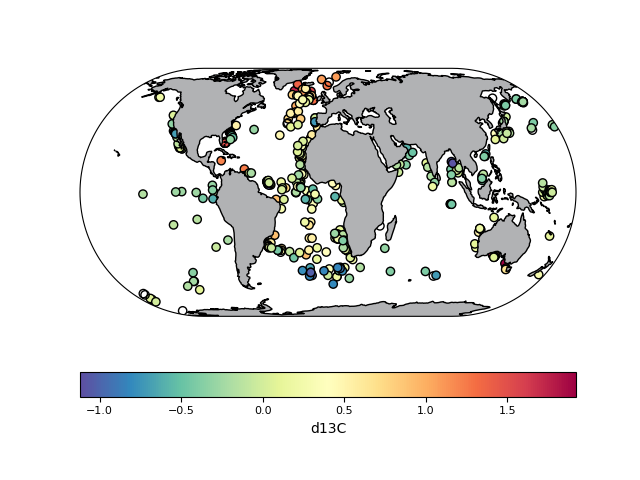
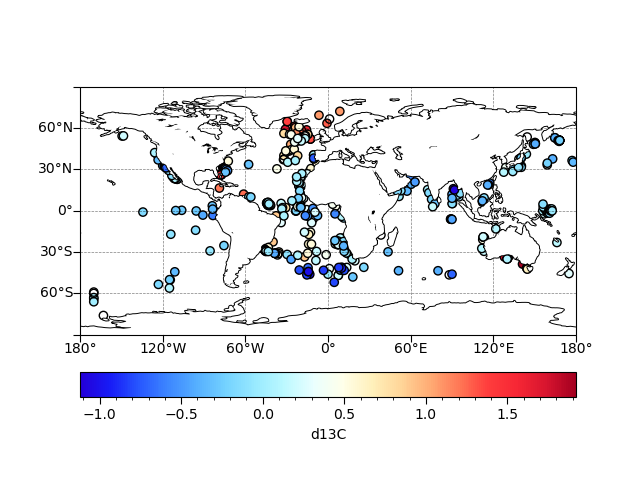
update plot_scatter_map example

diff --git a/examples/plot_scatter_map.py b/examples/plot_scatter_map.py
@@ -7,8 +7,11 @@ This example shows how to plot the 2D ScatterData object. I use a LGM d13C data 
 """
 
 from cgeniepy.table import ScatterData
-
+from cgeniepy.plot import CommunityPalette
 proxy_d13C = ScatterData("~/Science/lgm_bcp/data/LGM_d13c_CLEAN.txt", delimiter="\t", header=None)
 proxy_d13C.data.columns = ["Longitude", "Latitude", "Depth", "d13C","Event"]
 proxy_d13C.set_index(["Latitude", "Longitude"])
-proxy_d13C.plot(var='d13C', edgecolor='k', cmap='Spectral_r')
+cmap = CommunityPalette("BuDaRd18").colormap
+proxy_d13C.plot(var='d13C', edgecolor='k', cmap=cmap)
+
+plt.show()

diff --git a/docs/source/auto_examples/plot_scatter_map.py b/docs/source/auto_examples/plot_scatter_map.py
@@ -7,8 +7,9 @@ This example shows how to plot the 2D ScatterData object. I use a LGM d13C data 
 """
 
 from cgeniepy.table import ScatterData
-
+from cgeniepy.plot import CommunityPalette
 proxy_d13C = ScatterData("~/Science/lgm_bcp/data/LGM_d13c_CLEAN.txt", delimiter="\t", header=None)
 proxy_d13C.data.columns = ["Longitude", "Latitude", "Depth", "d13C","Event"]
 proxy_d13C.set_index(["Latitude", "Longitude"])
-proxy_d13C.plot(var='d13C', edgecolor='k', cmap='Spectral_r')
+cmap = CommunityPalette("BuDaRd18").colormap
+proxy_d13C.plot(var='d13C', edgecolor='k', cmap=cmap)

diff --git a/src/cgeniepy/plot.py b/src/cgeniepy/plot.py
@@ -637,8 +637,8 @@ class ScatterDataVis:
             gl = ax.gridlines(crs=ccrs.PlateCarree(), draw_labels=True, linewidth=.5,
                               color='black', alpha=0.5,
                               linestyle='--', zorder=1)
-            gl.xlabels_top = False
-            gl.ylabels_right = False
+            gl.top_labels = False
+            gl.right_labels = False
             if isinstance(ax.projection, ccrs.PlateCarree):
                 add_border_ticks(ax, 0.01)
 

diff --git a/docs/source/auto_examples/plot_scatter_map.rst b/docs/source/auto_examples/plot_scatter_map.rst
@@ -24,7 +24,7 @@ Plot the 2D ScatterData
 
 This example shows how to plot the 2D ScatterData object. I use a LGM d13C data from Peterson et al. 2014 (https://agupubs.onlinelibrary.wiley.com/doi/full/10.1002/2013PA002552) as an example.
 
-.. GENERATED FROM PYTHON SOURCE LINES 8-15
+.. GENERATED FROM PYTHON SOURCE LINES 8-16
 
 
 
@@ -38,8 +38,9 @@ This example shows how to plot the 2D ScatterData object. I use a LGM d13C data 
 
  .. code-block:: none
 
+    <frozen importlib._bootstrap>:241: RuntimeWarning: scipy._lib.messagestream.MessageStream size changed, may indicate binary incompatibility. Expected 56 from C header, got 64 from PyObject
 
-    <matplotlib.collections.PathCollection object at 0x113f7bc10>
+    <matplotlib.collections.PathCollection object at 0x307e3ae30>
 
 
 
@@ -51,16 +52,17 @@ This example shows how to plot the 2D ScatterData object. I use a LGM d13C data 
 
 
     from cgeniepy.table import ScatterData
-
+    from cgeniepy.plot import CommunityPalette
     proxy_d13C = ScatterData("~/Science/lgm_bcp/data/LGM_d13c_CLEAN.txt", delimiter="\t", header=None)
     proxy_d13C.data.columns = ["Longitude", "Latitude", "Depth", "d13C","Event"]
     proxy_d13C.set_index(["Latitude", "Longitude"])
-    proxy_d13C.plot(var='d13C', edgecolor='k', cmap='Spectral_r')
+    cmap = CommunityPalette("BuDaRd18").colormap
+    proxy_d13C.plot(var='d13C', edgecolor='k', cmap=cmap)
 
 
 .. rst-class:: sphx-glr-timing
 
-   **Total running time of the script:** (0 minutes 0.381 seconds)
+   **Total running time of the script:** (0 minutes 0.903 seconds)
 
 
 .. _sphx_glr_download_auto_examples_plot_scatter_map.py:

diff --git a/docs/source/auto_examples/index.rst b/docs/source/auto_examples/index.rst
@@ -31,23 +31,6 @@ Below is a gallery of examples
 
 .. raw:: html
 
-    <div class="sphx-glr-thumbcontainer" tooltip="This example shows how to plot the 2D ScatterData object. I use a LGM d13C data from Peterson e...">
-
-.. only:: html
-
-  .. image:: /auto_examples/images/thumb/sphx_glr_plot_scatter_map_thumb.png
-    :alt:
-
-  :ref:`sphx_glr_auto_examples_plot_scatter_map.py`
-
-.. raw:: html
-
-      <div class="sphx-glr-thumbnail-title">Plot the 2D ScatterData</div>
-    </div>
-
-
-.. raw:: html
-
     <div class="sphx-glr-thumbcontainer" tooltip="Plot the model variable for a spficic basin, here we use sea surface temperature in the Atlanti...">
 
 .. only:: html
@@ -60,6 +43,23 @@ Below is a gallery of examples
 .. raw:: html
 
       <div class="sphx-glr-thumbnail-title">Plot basin-specific data</div>
+    </div>
+
+
+.. raw:: html
+
+    <div class="sphx-glr-thumbcontainer" tooltip="This example shows how to plot the 2D ScatterData object. I use a LGM d13C data from Peterson e...">
+
+.. only:: html
+
+  .. image:: /auto_examples/images/thumb/sphx_glr_plot_scatter_map_thumb.png
+    :alt:
+
+  :ref:`sphx_glr_auto_examples_plot_scatter_map.py`
+
+.. raw:: html
+
+      <div class="sphx-glr-thumbnail-title">Plot the 2D ScatterData</div>
     </div>
 
 
@@ -276,8 +276,8 @@ Below is a gallery of examples
    :hidden:
 
    /auto_examples/plot_arrcomparison
-   /auto_examples/plot_scatter_map
    /auto_examples/plot_pac_sst
+   /auto_examples/plot_scatter_map
    /auto_examples/plot_coastal_data
    /auto_examples/plot_sst_map
    /auto_examples/plot_timeseries

diff --git a/docs/source/auto_examples/sg_execution_times.rst b/docs/source/auto_examples/sg_execution_times.rst
@@ -6,7 +6,7 @@
 
 Computation times
 =================
-**00:00.891** total execution time for 15 files **from auto_examples**:
+**00:00.903** total execution time for 15 files **from auto_examples**:
 
 .. container::
 
@@ -32,10 +32,13 @@ Computation times
    * - Example
      - Time
      - Mem (MB)
-   * - :ref:`sphx_glr_auto_examples_plot_additional_cmap.py` (``plot_additional_cmap.py``)
-     - 00:00.891
+   * - :ref:`sphx_glr_auto_examples_plot_scatter_map.py` (``plot_scatter_map.py``)
+     - 00:00.903
      - 0.0
    * - :ref:`sphx_glr_auto_examples_plot_PO4_distribution.py` (``plot_PO4_distribution.py``)
+     - 00:00.000
+     - 0.0
+   * - :ref:`sphx_glr_auto_examples_plot_additional_cmap.py` (``plot_additional_cmap.py``)
      - 00:00.000
      - 0.0
    * - :ref:`sphx_glr_auto_examples_plot_arrcomparison.py` (``plot_arrcomparison.py``)
@@ -60,9 +63,6 @@ Computation times
      - 00:00.000
      - 0.0
    * - :ref:`sphx_glr_auto_examples_plot_regridded_data.py` (``plot_regridded_data.py``)
-     - 00:00.000
-     - 0.0
-   * - :ref:`sphx_glr_auto_examples_plot_scatter_map.py` (``plot_scatter_map.py``)
      - 00:00.000
      - 0.0
    * - :ref:`sphx_glr_auto_examples_plot_scatterdata.py` (``plot_scatterdata.py``)
